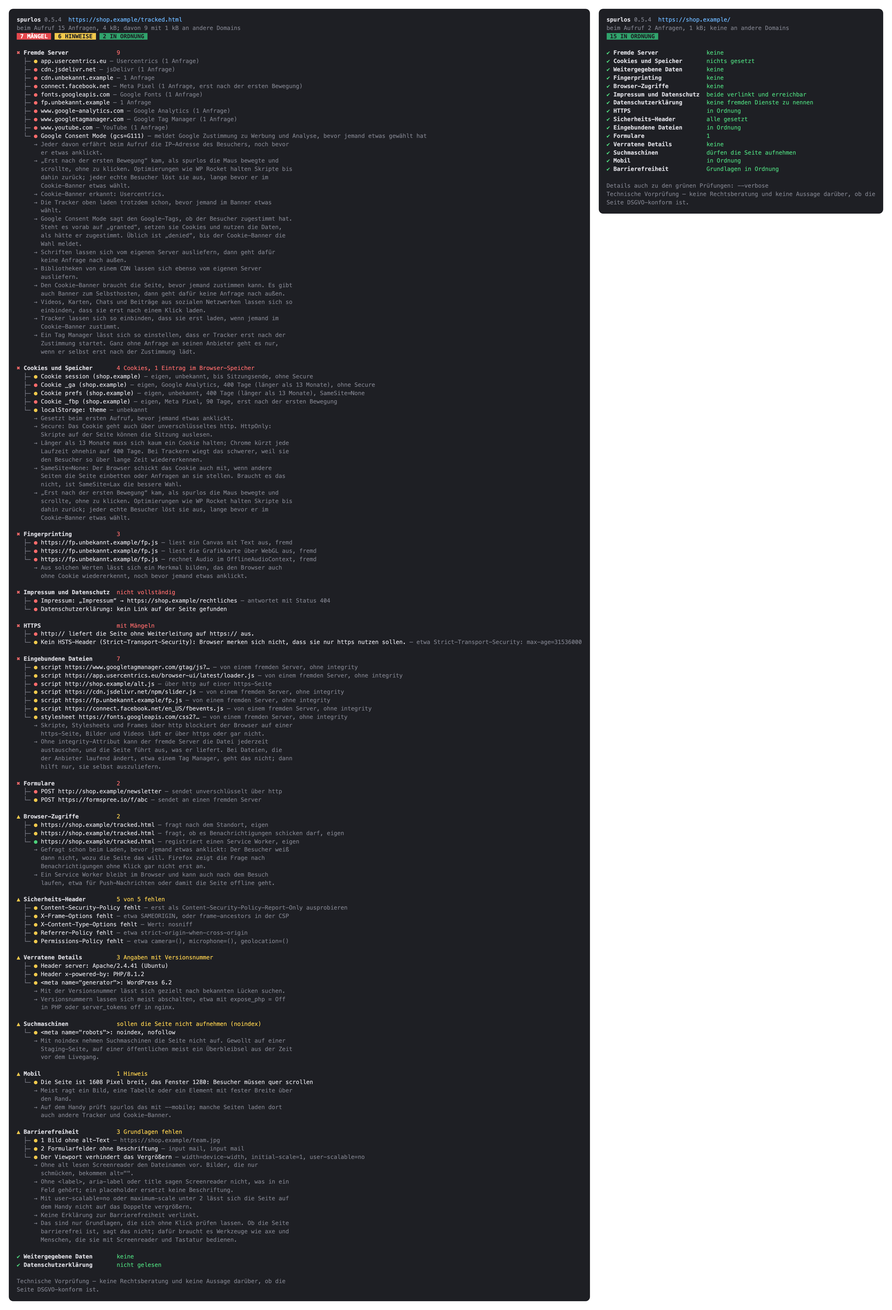
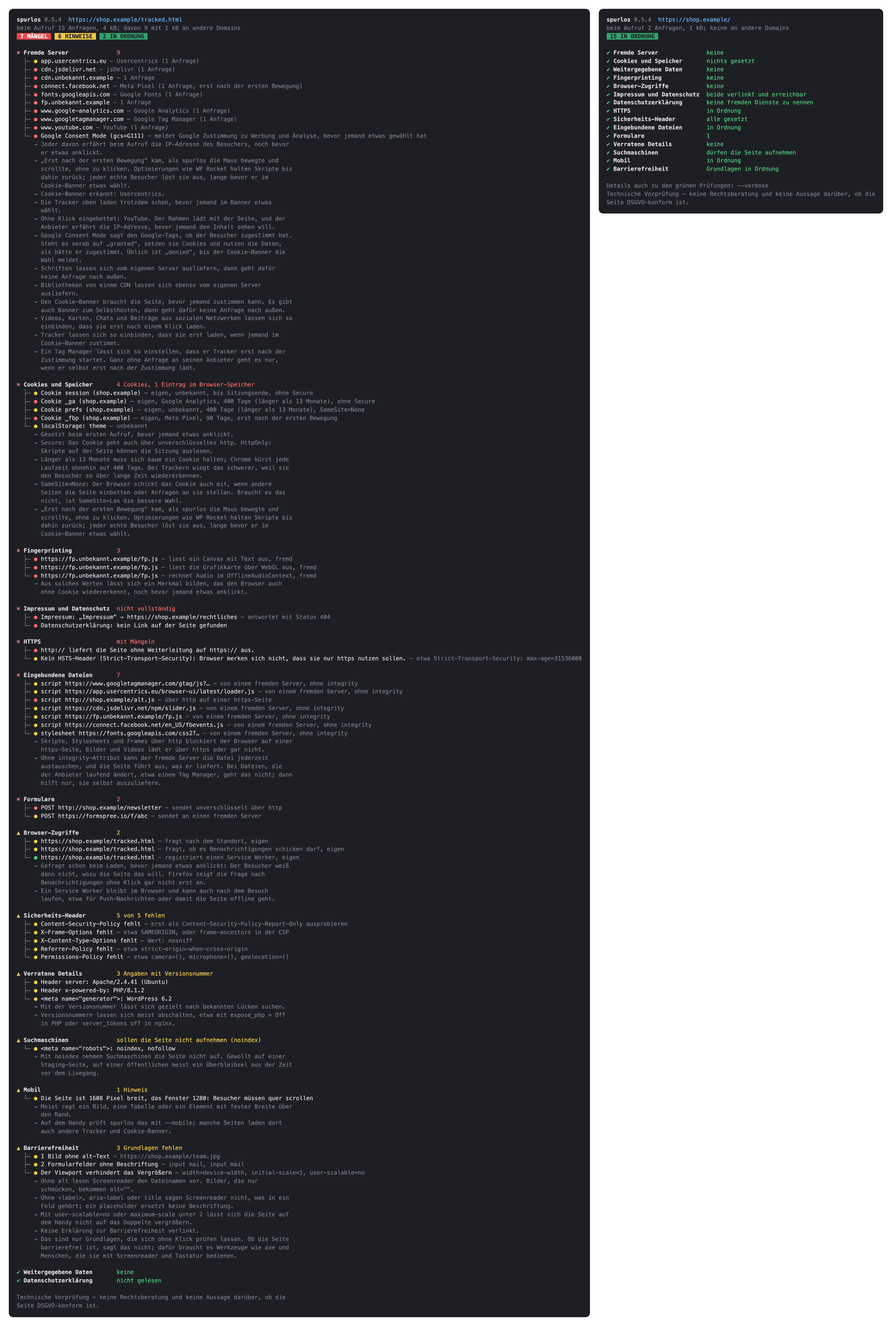
Name videos, maps and posts embedded as a frame on load, and know Google Maps embedded from www.google.com

Changed region(s): [[0.0311, 0.0, 0.4042, 0.9642], [0.6841, 0.0, 0.8707, 0.1555], [0.2488, 0.9331, 0.2799, 0.9642]]

diff --git a/examples/mit-maengeln.html b/examples/mit-maengeln.html
@@ -50,7 +50,7 @@ footer { margin-top: 28px; padding-top: 12px; border-top: 1px solid var(--line);
 <div class="top">
 <div>
 <h1>https://shop.example/tracked.html</h1>
-<p class="meta">checked on November 25, 2026 at 05:42 PM GMT+1</p>
+<p class="meta">checked on November 25, 2026 at 05:50 PM GMT+1</p>
 <p class="meta">15 requests on load, 4 kB; 9 of them with 1 kB to other domains</p>
 </div>
 <p class="brand"><svg class="logo light" xmlns="http://www.w3.org/2000/svg" viewBox="0 0 5255.92 1056" role="img" aria-label="spurlos"><title>spurlos</title><g transform="translate(-60.71 -70.67) scale(18.14)"><circle cx="28" cy="28" r="20" fill="none" stroke="#1e1f24" stroke-width="5.5"/><line x1="42.5" y1="42.5" x2="57" y2="57" stroke="#1e1f24" stroke-width="8" stroke-linecap="round"/><circle cx="17.5" cy="28" r="4.6" fill="#e5484d"/><circle cx="28" cy="28" r="4.6" fill="#e0a800"/><circle cx="38.5" cy="28" r="4.6" fill="#1f9d55"/></g><path transform="translate(1195.92 846)" fill="#1e1f24" d="M277 10Q209 10 158 -11.5Q107 -33 78.5 -71Q50 -109 50 -160L200 -160Q200 -136 221.5 -121.5Q243 -107 277 -107L321 -107Q362 -107 383.5 -122Q405 -137 405 -164Q405 -189 386 -202.5Q367 -216 327 -221L263 -229Q160 -242 113 -279Q66 -316 66 -392Q66 -472 121 -516Q176 -560 282 -560L320 -560Q421 -560 481 -516Q541 -472 541 -398L391 -398Q391 -418 371.5 -430.5Q352 -443 320 -443L282 -443Q245 -443 228 -430.5Q211 -418 211 -393Q211 -370 226.5 -358Q242 -346 276 -341L345 -332Q449 -319 499.5 -280Q550 -241 550 -164Q550 -80 492 -35Q434 10 321 10ZM646 180L646 -550L791 -550L791 -445L794 -445Q801 -491 830 -521Q869 -560 937 -560Q1020 -560 1070 -501.5Q1120 -443 1120 -345L1120 -205Q1120 -140 1097.5 -91.5Q1075 -43 1034 -16.5Q993 10 937 10Q869 10 830 -30Q801 -59 794 -105L791 -105L796 30L796 180ZM883 -120Q925 -120 947.5 -143.5Q970 -167 970 -210L970 -340Q970 -384 947.5 -407Q925 -430 883 -430Q842 -430 819 -406.5Q796 -383 796 -340L796 -210Q796 -167 819 -143.5Q842 -120 883 -120ZM1460 10Q1349 10 1286.5 -50Q1224 -110 1224 -214L1224 -550L1374 -550L1374 -215Q1374 -169 1396 -144.5Q1418 -120 1460 -120Q1501 -120 1523.5 -144.5Q1546 -169 1546 -215L1546 -550L1696 -550L1696 -214Q1696 -109 1633 -49.5Q1570 10 1460 10ZM1822 0L1822 -550L1962 -550L1962 -445L1964 -445Q1973 -488 1998 -515Q2039 -560 2118 -560Q2209 -560 2259.5 -505Q2310 -450 2310 -350L2310 -305L2150 -305L2150 -340Q2150 -385 2125.5 -410Q2101 -435 2060 -435Q2017 -435 1994.5 -410Q1972 -385 1972 -340L1972 0ZM2710 0Q2652 0 2608 -24.5Q2564 -49 2539.5 -93Q2515 -137 2515 -195L2515 -595L2345 -595L2345 -730L2665 -730L2665 -195Q2665 -168 2681.5 -151.5Q2698 -135 2725 -135L2885 -135L2885 0ZM3200 10Q3127 10 3073 -17.5Q3019 -45 2989.5 -94.5Q2960 -144 2960 -210L2960 -340Q2960 -406 2989.5 -455.5Q3019 -505 3073 -532.5Q3127 -560 3200 -560Q3274 -560 3327.5 -532.5Q3381 -505 3410.5 -455.5Q3440 -406 3440 -340L3440 -210Q3440 -144 3410.5 -94.5Q3381 -45 3327.5 -17.5Q3274 10 3200 10ZM3200 -120Q3244 -120 3267 -143.5Q3290 -167 3290 -210L3290 -340Q3290 -384 3267 -407Q3244 -430 3200 -430Q3157 -430 3133.5 -407Q3110 -384 3110 -340L3110 -210Q3110 -167 3133.5 -143.5Q3157 -120 3200 -120ZM3757 10Q3689 10 3638 -11.5Q3587 -33 3558.5 -71Q3530 -109 3530 -160L3680 -160Q3680 -136 3701.5 -121.5Q3723 -107 3757 -107L3801 -107Q3842 -107 3863.5 -122Q3885 -137 3885 -164Q3885 -189 3866 -202.5Q3847 -216 3807 -221L3743 -229Q3640 -242 3593 -279Q3546 -316 3546 -392Q3546 -472 3601 -516Q3656 -560 3762 -560L3800 -560Q3901 -560 3961 -516Q4021 -472 4021 -398L3871 -398Q3871 -418 3851.5 -430.5Q3832 -443 3800 -443L3762 -443Q3725 -443 3708 -430.5Q3691 -418 3691 -393Q3691 -370 3706.5 -358Q3722 -346 3756 -341L3825 -332Q3929 -319 3979.5 -280Q4030 -241 4030 -164Q4030 -80 3972 -35Q3914 10 3801 10Z"/></svg>
@@ -59,7 +59,7 @@ footer { margin-top: 28px; padding-top: 12px; border-top: 1px solid var(--line);
 </div>
 <p class="summary"><span class="badge red">7 problems</span> <span class="badge yellow">6 notes</span> <span class="badge green">2 fine</span></p>
 </header>
-<details class="check red" open><summary class="head"><span class="mark">✖</span><span class="title">Third-party servers</span><span class="value">9</span></summary><ul><li class="yellow">app.usercentrics.eu<span class="detail"> – Usercentrics (1 request)</span></li><li class="red">cdn.jsdelivr.net<span class="detail"> – jsDelivr (1 request)</span></li><li class="red">cdn.unbekannt.example<span class="detail"> – 1 request</span></li><li class="red">connect.facebook.net<span class="detail"> – Meta Pixel (1 request, only after the first move)</span></li><li class="red">fonts.googleapis.com<span class="detail"> – Google Fonts (1 request)</span></li><li class="red">fp.unbekannt.example<span class="detail"> – 1 request</span></li><li class="red">www.google-analytics.com<span class="detail"> – Google Analytics (1 request)</span></li><li class="red">www.googletagmanager.com<span class="detail"> – Google Tag Manager (1 request)</span></li><li class="red">www.youtube.com<span class="detail"> – YouTube (1 request)</span></li><li class="red">Google Consent Mode (gcs=G111)<span class="detail"> – tells Google consent was given for ads and analytics before anyone chose anything</span></li></ul><p class="note">Each of them learns the visitor&#39;s IP address on opening the page, before any click.</p><p class="note">“Only after the first move” came when spurlos moved the mouse and scrolled, without clicking. Optimizers such as WP Rocket hold scripts back until then; every real visitor sets them off, long before choosing anything in the cookie banner.</p><p class="note">Cookie banner found: Usercentrics.</p><p class="note">The trackers above still load before anyone chooses anything in the banner.</p><p class="note">Google Consent Mode tells Google&#39;s tags whether the visitor agreed. Set to “granted” up front, they set cookies and use the data as if the visitor had agreed. The usual default is “denied” until the cookie banner reports the choice.</p><p class="note">Fonts can be served from the own server, then no request goes out for them.</p><p class="note">Libraries from a CDN can be served from the own server as well.</p><p class="note">The site needs the cookie banner before anyone can agree. There are also banners to host yourself, then no request goes out for it.</p><p class="note">Videos, maps, chats and social media posts can be embedded so that they only load after a click.</p><p class="note">Trackers can be embedded so that they only load once someone agrees in the cookie banner.</p><p class="note">A tag manager can be set up to start trackers only after consent. To send no request to its provider at all, load the tag manager itself only after consent.</p></details>
+<details class="check red" open><summary class="head"><span class="mark">✖</span><span class="title">Third-party servers</span><span class="value">9</span></summary><ul><li class="yellow">app.usercentrics.eu<span class="detail"> – Usercentrics (1 request)</span></li><li class="red">cdn.jsdelivr.net<span class="detail"> – jsDelivr (1 request)</span></li><li class="red">cdn.unbekannt.example<span class="detail"> – 1 request</span></li><li class="red">connect.facebook.net<span class="detail"> – Meta Pixel (1 request, only after the first move)</span></li><li class="red">fonts.googleapis.com<span class="detail"> – Google Fonts (1 request)</span></li><li class="red">fp.unbekannt.example<span class="detail"> – 1 request</span></li><li class="red">www.google-analytics.com<span class="detail"> – Google Analytics (1 request)</span></li><li class="red">www.googletagmanager.com<span class="detail"> – Google Tag Manager (1 request)</span></li><li class="red">www.youtube.com<span class="detail"> – YouTube (1 request)</span></li><li class="red">Google Consent Mode (gcs=G111)<span class="detail"> – tells Google consent was given for ads and analytics before anyone chose anything</span></li></ul><p class="note">Each of them learns the visitor&#39;s IP address on opening the page, before any click.</p><p class="note">“Only after the first move” came when spurlos moved the mouse and scrolled, without clicking. Optimizers such as WP Rocket hold scripts back until then; every real visitor sets them off, long before choosing anything in the cookie banner.</p><p class="note">Cookie banner found: Usercentrics.</p><p class="note">The trackers above still load before anyone chooses anything in the banner.</p><p class="note">Embedded without a click: YouTube. The frame loads with the page, and its provider learns the IP address before anyone asks for the content.</p><p class="note">Google Consent Mode tells Google&#39;s tags whether the visitor agreed. Set to “granted” up front, they set cookies and use the data as if the visitor had agreed. The usual default is “denied” until the cookie banner reports the choice.</p><p class="note">Fonts can be served from the own server, then no request goes out for them.</p><p class="note">Libraries from a CDN can be served from the own server as well.</p><p class="note">The site needs the cookie banner before anyone can agree. There are also banners to host yourself, then no request goes out for it.</p><p class="note">Videos, maps, chats and social media posts can be embedded so that they only load after a click.</p><p class="note">Trackers can be embedded so that they only load once someone agrees in the cookie banner.</p><p class="note">A tag manager can be set up to start trackers only after consent. To send no request to its provider at all, load the tag manager itself only after consent.</p></details>
 <details class="check red" open><summary class="head"><span class="mark">✖</span><span class="title">Cookies and storage</span><span class="value">4 cookies, 1 entry in browser storage</span></summary><ul><li class="yellow">Cookie session (shop.example)<span class="detail"> – first-party, unknown, until the session ends, without Secure</span></li><li class="red">Cookie _ga (shop.example)<span class="detail"> – first-party, Google Analytics, 400 days (longer than 13 months), without Secure</span></li><li class="yellow">Cookie prefs (shop.example)<span class="detail"> – first-party, unknown, 400 days (longer than 13 months), SameSite=None</span></li><li class="red">Cookie _fbp (shop.example)<span class="detail"> – first-party, Meta Pixel, 90 days, only after the first move</span></li><li class="yellow">localStorage: theme<span class="detail"> – unknown</span></li></ul><p class="note">Set on the first visit, before any click.</p><p class="note">Secure: the cookie also travels over unencrypted http. HttpOnly: scripts on the page can read the session.</p><p class="note">Hardly any cookie needs to last longer than 13 months; Chrome cuts every lifetime to 400 days anyway. For trackers it weighs more, as they recognize the visitor over a long time that way.</p><p class="note">SameSite=None: the browser sends the cookie along even when other sites embed the site or send requests to it. If it does not need that, SameSite=Lax is the better choice.</p><p class="note">“Only after the first move” came when spurlos moved the mouse and scrolled, without clicking. Optimizers such as WP Rocket hold scripts back until then; every real visitor sets them off, long before choosing anything in the cookie banner.</p></details>
 <details class="check red" open><summary class="head"><span class="mark">✖</span><span class="title">Fingerprinting</span><span class="value">3</span></summary><ul><li class="red">https://fp.unbekannt.example/fp.js<span class="detail"> – reads back a canvas with text, third-party</span></li><li class="red">https://fp.unbekannt.example/fp.js<span class="detail"> – reads the graphics card via WebGL, third-party</span></li><li class="red">https://fp.unbekannt.example/fp.js<span class="detail"> – renders audio in an OfflineAudioContext, third-party</span></li></ul><p class="note">Such values make up a trait that recognizes the browser without any cookie, before anyone clicks anything.</p></details>
 <details class="check red" open><summary class="head"><span class="mark">✖</span><span class="title">Legal notice and privacy policy</span><span class="value">incomplete</span></summary><ul><li class="red">Legal notice (Impressum): “Impressum” → https://shop.example/rechtliches<span class="detail"> – answers with status 404</span></li><li class="red">Privacy policy: no link found on the page</li></ul></details>

diff --git a/examples/sauber.html b/examples/sauber.html
@@ -50,7 +50,7 @@ footer { margin-top: 28px; padding-top: 12px; border-top: 1px solid var(--line);
 <div class="top">
 <div>
 <h1>https://shop.example/</h1>
-<p class="meta">checked on November 25, 2026 at 05:42 PM GMT+1</p>
+<p class="meta">checked on November 25, 2026 at 05:50 PM GMT+1</p>
 <p class="meta">2 requests on load, 1 kB; none to other domains</p>
 </div>
 <p class="brand"><svg class="logo light" xmlns="http://www.w3.org/2000/svg" viewBox="0 0 5255.92 1056" role="img" aria-label="spurlos"><title>spurlos</title><g transform="translate(-60.71 -70.67) scale(18.14)"><circle cx="28" cy="28" r="20" fill="none" stroke="#1e1f24" stroke-width="5.5"/><line x1="42.5" y1="42.5" x2="57" y2="57" stroke="#1e1f24" stroke-width="8" stroke-linecap="round"/><circle cx="17.5" cy="28" r="4.6" fill="#e5484d"/><circle cx="28" cy="28" r="4.6" fill="#e0a800"/><circle cx="38.5" cy="28" r="4.6" fill="#1f9d55"/></g><path transform="translate(1195.92 846)" fill="#1e1f24" d="M277 10Q209 10 158 -11.5Q107 -33 78.5 -71Q50 -109 50 -160L200 -160Q200 -136 221.5 -121.5Q243 -107 277 -107L321 -107Q362 -107 383.5 -122Q405 -137 405 -164Q405 -189 386 -202.5Q367 -216 327 -221L263 -229Q160 -242 113 -279Q66 -316 66 -392Q66 -472 121 -516Q176 -560 282 -560L320 -560Q421 -560 481 -516Q541 -472 541 -398L391 -398Q391 -418 371.5 -430.5Q352 -443 320 -443L282 -443Q245 -443 228 -430.5Q211 -418 211 -393Q211 -370 226.5 -358Q242 -346 276 -341L345 -332Q449 -319 499.5 -280Q550 -241 550 -164Q550 -80 492 -35Q434 10 321 10ZM646 180L646 -550L791 -550L791 -445L794 -445Q801 -491 830 -521Q869 -560 937 -560Q1020 -560 1070 -501.5Q1120 -443 1120 -345L1120 -205Q1120 -140 1097.5 -91.5Q1075 -43 1034 -16.5Q993 10 937 10Q869 10 830 -30Q801 -59 794 -105L791 -105L796 30L796 180ZM883 -120Q925 -120 947.5 -143.5Q970 -167 970 -210L970 -340Q970 -384 947.5 -407Q925 -430 883 -430Q842 -430 819 -406.5Q796 -383 796 -340L796 -210Q796 -167 819 -143.5Q842 -120 883 -120ZM1460 10Q1349 10 1286.5 -50Q1224 -110 1224 -214L1224 -550L1374 -550L1374 -215Q1374 -169 1396 -144.5Q1418 -120 1460 -120Q1501 -120 1523.5 -144.5Q1546 -169 1546 -215L1546 -550L1696 -550L1696 -214Q1696 -109 1633 -49.5Q1570 10 1460 10ZM1822 0L1822 -550L1962 -550L1962 -445L1964 -445Q1973 -488 1998 -515Q2039 -560 2118 -560Q2209 -560 2259.5 -505Q2310 -450 2310 -350L2310 -305L2150 -305L2150 -340Q2150 -385 2125.5 -410Q2101 -435 2060 -435Q2017 -435 1994.5 -410Q1972 -385 1972 -340L1972 0ZM2710 0Q2652 0 2608 -24.5Q2564 -49 2539.5 -93Q2515 -137 2515 -195L2515 -595L2345 -595L2345 -730L2665 -730L2665 -195Q2665 -168 2681.5 -151.5Q2698 -135 2725 -135L2885 -135L2885 0ZM3200 10Q3127 10 3073 -17.5Q3019 -45 2989.5 -94.5Q2960 -144 2960 -210L2960 -340Q2960 -406 2989.5 -455.5Q3019 -505 3073 -532.5Q3127 -560 3200 -560Q3274 -560 3327.5 -532.5Q3381 -505 3410.5 -455.5Q3440 -406 3440 -340L3440 -210Q3440 -144 3410.5 -94.5Q3381 -45 3327.5 -17.5Q3274 10 3200 10ZM3200 -120Q3244 -120 3267 -143.5Q3290 -167 3290 -210L3290 -340Q3290 -384 3267 -407Q3244 -430 3200 -430Q3157 -430 3133.5 -407Q3110 -384 3110 -340L3110 -210Q3110 -167 3133.5 -143.5Q3157 -120 3200 -120ZM3757 10Q3689 10 3638 -11.5Q3587 -33 3558.5 -71Q3530 -109 3530 -160L3680 -160Q3680 -136 3701.5 -121.5Q3723 -107 3757 -107L3801 -107Q3842 -107 3863.5 -122Q3885 -137 3885 -164Q3885 -189 3866 -202.5Q3847 -216 3807 -221L3743 -229Q3640 -242 3593 -279Q3546 -316 3546 -392Q3546 -472 3601 -516Q3656 -560 3762 -560L3800 -560Q3901 -560 3961 -516Q4021 -472 4021 -398L3871 -398Q3871 -418 3851.5 -430.5Q3832 -443 3800 -443L3762 -443Q3725 -443 3708 -430.5Q3691 -418 3691 -393Q3691 -370 3706.5 -358Q3722 -346 3756 -341L3825 -332Q3929 -319 3979.5 -280Q4030 -241 4030 -164Q4030 -80 3972 -35Q3914 10 3801 10Z"/></svg>

diff --git a/src/checks.ts b/src/checks.ts
@@ -66,7 +66,7 @@ export type AccessibilityProblem = 'lang' | 'images' | 'fields' | 'zoom'
 export type MobileProblem = 'viewport' | 'overflow'
 
 export type Result =
-  | { check: 'third-party'; level: Level; hosts: ThirdParty[]; consent: string[]; selfHosted: string[]; platform?: string; consentMode?: ConsentMode; banner?: Banner }
+  | { check: 'third-party'; level: Level; hosts: ThirdParty[]; consent: string[]; selfHosted: string[]; platform?: string; consentMode?: ConsentMode; banner?: Banner; embeds?: string[] }
   | { check: 'cookies'; level: Level; cookies: CookieFinding[]; storage: StorageFinding[] }
   | { check: 'legal'; level: Level; pages: LegalPage[] }
   | { check: 'policy'; level: Level; read: boolean; url?: string; services: PolicyService[] }
@@ -269,6 +269,31 @@ export function consentMode(scan: Scan): ConsentMode | undefined {
 /** Consent Mode granting anything before a click is red: Google's tags then set cookies and use the data as if agreed. */
 export const consentModeGranted = (c: ConsentMode | undefined): boolean => c !== undefined && (c.ads === 'granted' || c.analytics === 'granted')
 
+// what a site can embed as a frame that waits for a click: a video, a map, a post
+const EMBEDDED = ['video', 'maps', 'social']
+
+/**
+ * The known services the markup embeds as a frame from another site, so they load with the page: no placeholder that
+ * waits for a click. youtube-nocookie.com is named as such, as it sets cookies only once the video plays.
+ */
+export function embeds(scan: Scan): string[] {
+  const own = ownSites(scan)
+  const names = new Set<string>()
+  for (const r of list(scan.resources)) {
+    if (r.tag !== 'iframe') continue
+    let host = ''
+    try {
+      host = new URL(r.url).hostname
+    } catch {
+      continue
+    }
+    const service = preferPath(serviceOfHost(host), serviceOfPath(r.url))
+    if (own.has(site(host)) || !service || !EMBEDDED.includes(service.category)) continue
+    names.add(site(host) === 'youtube-nocookie.com' ? `${service.name} (youtube-nocookie.com)` : service.name)
+  }
+  return [...names]
+}
+
 /** a cookie banner's buttons on its first layer: the one that agrees, and the one that refuses if there is one */
 export type Banner = { accept: string; reject?: string }
 
@@ -302,8 +327,9 @@ export function thirdParty(scan: Scan): Result {
   const platform = platformOf(scan)
   const mode = consentMode(scan)
   const choice = banner(scan)
+  const framed = embeds(scan)
   const level = worst([...hosts.map(hostLevel), ...(consentModeGranted(mode) ? ['red' as const] : []), ...(choice ? [bannerLevel(choice)] : [])])
-  return { check: 'third-party', level, hosts, consent: consentManagers(scan), selfHosted, ...(platform ? { platform: platform.name } : {}), ...(mode ? { consentMode: mode } : {}), ...(choice ? { banner: choice } : {}) }
+  return { check: 'third-party', level, hosts, consent: consentManagers(scan), selfHosted, ...(platform ? { platform: platform.name } : {}), ...(mode ? { consentMode: mode } : {}), ...(choice ? { banner: choice } : {}), ...(framed.length ? { embeds: framed } : {}) }
 }
 
 const thirdPartyHosts = (scan: Scan) => thirdPartyFound(scan).hosts

diff --git a/test/checks.test.ts b/test/checks.test.ts
@@ -1,7 +1,7 @@
 import { describe, expect, test } from 'vitest'
 import {
   access, accessibility, blocksZoom, indexing, consentMode, cookieIds, policy, servicesNamed, compare, mobile, carried, leaks, load, consentManagers, preconnects, cookies, disclosure, findings, fingerprinting, forms, headers, https, legal, legalLinks, resources, serviceOfCookie, serviceOfStorage, serviceOfHost,
-  banner, thirdParty, weakCsp, type Banner, type Result,
+  banner, embeds, thirdParty, weakCsp, type Banner, type Result,
 } from '../src/checks.ts'
 import { iceHost, type Scan, type Visit } from '../src/scan.ts'
 
@@ -660,6 +660,25 @@ describe('cookie banners', () => {
     expect(level({ accept: 'Alle akzeptieren' })).toBe('yellow')
     expect(level({ accept: 'Alle akzeptieren', reject: 'Ablehnen' })).toBe('green')
     expect(findings(thirdParty({ ...base, banner: ['Alle akzeptieren'] }))).toEqual([{ key: 'consent-banner no-reject', level: 'yellow' }])
+  })
+
+  test('a video, map or post embedded as a frame on load is named; a script or the site’s own frame is not', () => {
+    const frame = (url: string) => ({ tag: 'iframe', url, integrity: false })
+    const scan = {
+      ...base,
+      resources: [
+        frame('https://www.youtube-nocookie.com/embed/abc'),
+        frame('https://www.google.com/maps/embed?pb=xyz'),
+        frame('https://www.firma.de/karte.html'),
+        frame('https://www.google.com/recaptcha/api2/anchor'),
+        { tag: 'script', url: 'https://player.vimeo.com/api/player.js', integrity: false },
+      ],
+    }
+    expect(embeds(scan)).toEqual(['YouTube (youtube-nocookie.com)', 'Google Maps'])
+    const r = thirdParty(scan)
+    if (r.check !== 'third-party') throw new Error()
+    expect(r.embeds).toEqual(['YouTube (youtube-nocookie.com)', 'Google Maps'])
+    expect(thirdParty(base)).not.toHaveProperty('embeds')
   })
 
   test("the banner's own cookie is green, a chat's yellow, a tracker's red", () => {

diff --git a/src/lang/de.ts b/src/lang/de.ts
@@ -147,6 +147,9 @@ Hilft dir spurlos? https://ko-fi.com/mmohrx`,
   bannerNoReject: (text: string) => `„${text}“ auf der ersten Ebene, kein Knopf zum Ablehnen`,
   bannerNoRejectNote:
     'Der Banner zeigt ohne Klick einen Knopf zum Zustimmen, aber keinen zum Ablehnen; der steckt dann meist hinter „Einstellungen“ oder einem Link. spurlos erkennt die Knöpfe an ihren Wörtern und klickt keinen an. Heißt der Knopf anders, prüf es selbst.',
+  embedded: (names: string) =>
+    `Ohne Klick eingebettet: ${names}. Der Rahmen lädt mit der Seite, und der Anbieter erfährt die IP-Adresse, bevor jemand den Inhalt sehen will.`,
+  embeddedNoCookie: 'youtube-nocookie.com setzt laut YouTube erst Cookies, wenn das Video abgespielt wird. Die IP-Adresse erfährt YouTube beim Laden trotzdem.',
   consentModeGranted: (ads: boolean, analytics: boolean) => `meldet Google Zustimmung zu ${ads && analytics ? 'Werbung und Analyse' : ads ? 'Werbung' : 'Analyse'}, bevor jemand etwas gewählt hat`,
   consentModeGrantedNote: 'Google Consent Mode sagt den Google-Tags, ob der Besucher zugestimmt hat. Steht es vorab auf „granted“, setzen sie Cookies und nutzen die Daten, als hätte er zugestimmt. Üblich ist „denied“, bis der Cookie-Banner die Wahl meldet.',
   consentModeDenied: (gcs: string) => `Google Consent Mode meldet Werbung und Analyse als abgelehnt (gcs=${gcs}). Die Google-Tags senden trotzdem schon, ohne Cookies, und erfahren dabei die IP-Adresse.`,

diff --git a/src/lang/en.ts b/src/lang/en.ts
@@ -143,6 +143,9 @@ Does spurlos help you? https://ko-fi.com/mmohrx`,
   bannerNoReject: text => `“${text}” on the first layer, no button to refuse`,
   bannerNoRejectNote:
     'Without a click, the banner shows a button to agree but none to refuse; that one then mostly sits behind “Settings” or a link. spurlos recognizes the buttons by their words and clicks none of them. If the button is worded differently, check it yourself.',
+  embedded: names =>
+    `Embedded without a click: ${names}. The frame loads with the page, and its provider learns the IP address before anyone asks for the content.`,
+  embeddedNoCookie: 'youtube-nocookie.com, as YouTube says, sets cookies only once the video plays. YouTube still learns the IP address when it loads.',
   consentModeGranted: (ads, analytics) => `tells Google consent was given for ${ads && analytics ? 'ads and analytics' : ads ? 'ads' : 'analytics'} before anyone chose anything`,
   consentModeGrantedNote: 'Google Consent Mode tells Google\'s tags whether the visitor agreed. Set to “granted” up front, they set cookies and use the data as if the visitor had agreed. The usual default is “denied” until the cookie banner reports the choice.',
   consentModeDenied: gcs => `Google Consent Mode reports ads and analytics as denied (gcs=${gcs}). Google's tags still send requests, without cookies, and learn the IP address that way.`,

diff --git a/test/report.test.ts b/test/report.test.ts
@@ -207,6 +207,16 @@ test('a session replay counts as a tracker and gets a note of its own', () => {
   expect(text(page('https://shop.example/'), [{ ...r, hosts: [{ ...hj, own: 'option' as const }] }], 'de')).not.toContain('Sitzungsaufzeichnung')
 })
 
+test('frames embedded on load are named, youtube-nocookie.com with what it changes', () => {
+  const yt = { host: 'www.youtube-nocookie.com', service: { name: 'YouTube', category: 'video', hosts: ['youtube-nocookie.com'] }, requests: 3 }
+  const r: Result = { check: 'third-party', level: 'red', hosts: [yt], consent: [], selfHosted: [], embeds: ['YouTube (youtube-nocookie.com)'] }
+  const de = text(page('https://shop.example/'), [r], 'de')
+  expect(de).toContain('Ohne Klick eingebettet: YouTube (youtube-nocookie.com).')
+  expect(de).toContain('youtube-nocookie.com setzt laut YouTube erst Cookies')
+  expect(text(page('https://shop.example/'), [r], 'en')).toContain('Embedded without a click: YouTube (youtube-nocookie.com).')
+  expect(text(page('https://shop.example/'), [{ ...r, embeds: [] }], 'de')).not.toContain('Ohne Klick eingebettet')
+})
+
 test('SARIF: one rule per check, a result per red or yellow finding at the page, its key as fingerprint', () => {
   const scan = page('https://shop.example/')
   const results: Result[] = [

diff --git a/src/report.ts b/src/report.ts
@@ -81,7 +81,7 @@ function unkeyed(t: Messages, r: Result, now: number): Section {
         categories.has('cdn') ? t.thirdPartyHint.cdn : null,
         categories.has('consent') ? t.thirdPartyHint.consent : null,
         categories.has('captcha') ? t.thirdPartyHint.captcha : null,
-        EMBEDS.some(c => categories.has(c)) ? t.thirdPartyHint.embed : null,
+        EMBEDS.some(c => categories.has(c)) || r.embeds?.length ? t.thirdPartyHint.embed : null,
         trackers ? t.thirdPartyHint.tracking : null,
         tagManager ? t.thirdPartyHint.tagManager : null,
       ]
@@ -102,6 +102,9 @@ function unkeyed(t: Messages, r: Result, now: number): Section {
           ...consent,
           ...(replays.length ? [t.sessionReplay(replays.join(', '))] : []),
           ...bannerNotes,
+          // a baseline from an older spurlos has none
+          ...(r.embeds?.length ? [t.embedded(r.embeds.join(', '))] : []),
+          ...(r.embeds?.some(e => e.includes('youtube-nocookie.com')) ? [t.embeddedNoCookie] : []),
           ...modeNotes,
           ...hints.filter(n => n !== null),
         ],

diff --git a/docs/de/checks.md b/docs/de/checks.md
@@ -14,7 +14,7 @@ Bekannte Sitzungs- und Sicherheits-Cookies sind zum Beispiel `XSRF-TOKEN` und `<
 
 Ein Cookie, das länger als 13 Monate (395 Tage) gilt, ist mindestens gelb, auch ein bekanntes Sitzungs-Cookie; in `--json` trägt es `long: true`. Chrome kürzt jede Laufzeit auf höchstens 400 Tage, ein Cookie für zwei Jahre steht im Bericht also mit 400 Tagen. `SameSite=None` bei einem eigenen Cookie nennt der Bericht, ohne dass sich die Ampel ändert: Der Browser schickt es dann auch in fremden Zusammenhängen mit, aber Dienste wie Cloudflare (`__cf_bm`) brauchen das.
 
-Cookie-Banner erkennt spurlos an ihren Servern, an ihren Dateien auf der eigenen Seite (so auch Borlabs Cookie, Complianz oder Real Cookie Banner unter WordPress), an ihren Cookies und an ihren Einträgen im Browser-Speicher (Kategorie `consent`). Die Prüfung „Fremde Server“ nennt, welcher geladen wird, und sagt, wenn bekannte Tracker trotzdem schon vor jeder Wahl im Banner laden. Lädt davor nur ein Tag Manager wie Google Tag Manager, Adobe Tags oder Tealium iQ (Kategorie `tag-manager`), sagt der Bericht das eigens: Er zählt selbst nichts mit, startet aber Tracker, sobald die Seite es so einstellt, und sein Anbieter erfährt die IP-Adresse. Rot bleibt der fremde Server so oder so. Dienste, die den Besuch aufzeichnen, etwa Hotjar, Microsoft Clarity oder FullStory (Kategorie `session-replay`), zählen als Tracker, und der Bericht nennt sie als Sitzungsaufzeichnung: Sie zeichnen Mausbewegungen, Klicks und Scrollen auf, je nach Einstellung auch, was jemand in Formularfelder tippt. Außerdem liest spurlos die Knöpfe, die der Banner ohne Klick zeigt, auf der Seite oder in einem Frame seines Anbieters, und sagt, ob neben dem Knopf zum Zustimmen einer ablehnt („Alle ablehnen“, „Nur notwendige Cookies“, „Weiter ohne Einwilligung“). Geht nur das Zustimmen mit einem Klick, ist das gelb: Das Ablehnen steckt dann meist hinter „Einstellungen“ oder einem Link. spurlos erkennt die Knöpfe an ihren Wörtern, auf Deutsch und Englisch, und klickt keinen an; ein Knopf, der eine Auswahl trifft oder speichert, zählt weder als das eine noch als das andere. Einen Banner, den es nicht findet oder dessen Wörter es nicht kennt, lässt es weg. Ob ein Banner nötig ist oder richtig eingestellt, beurteilt spurlos nicht.
+Cookie-Banner erkennt spurlos an ihren Servern, an ihren Dateien auf der eigenen Seite (so auch Borlabs Cookie, Complianz oder Real Cookie Banner unter WordPress), an ihren Cookies und an ihren Einträgen im Browser-Speicher (Kategorie `consent`). Die Prüfung „Fremde Server“ nennt, welcher geladen wird, und sagt, wenn bekannte Tracker trotzdem schon vor jeder Wahl im Banner laden. Lädt davor nur ein Tag Manager wie Google Tag Manager, Adobe Tags oder Tealium iQ (Kategorie `tag-manager`), sagt der Bericht das eigens: Er zählt selbst nichts mit, startet aber Tracker, sobald die Seite es so einstellt, und sein Anbieter erfährt die IP-Adresse. Rot bleibt der fremde Server so oder so. Dienste, die den Besuch aufzeichnen, etwa Hotjar, Microsoft Clarity oder FullStory (Kategorie `session-replay`), zählen als Tracker, und der Bericht nennt sie als Sitzungsaufzeichnung: Sie zeichnen Mausbewegungen, Klicks und Scrollen auf, je nach Einstellung auch, was jemand in Formularfelder tippt. Videos, Karten und Beiträge aus sozialen Netzwerken, die die Seite als Rahmen vom Server ihres Anbieters einbettet (Kategorien `video`, `maps`, `social`), nennt der Bericht als ohne Klick eingebettet: Sie laden mit der Seite, statt hinter einem Platzhalter auf einen Klick zu warten. Einen Rahmen von `youtube-nocookie.com` nennt er als solchen, weil YouTube dort nach eigener Aussage erst beim Abspielen Cookies setzt; die IP-Adresse erfährt YouTube trotzdem. Außerdem liest spurlos die Knöpfe, die der Banner ohne Klick zeigt, auf der Seite oder in einem Frame seines Anbieters, und sagt, ob neben dem Knopf zum Zustimmen einer ablehnt („Alle ablehnen“, „Nur notwendige Cookies“, „Weiter ohne Einwilligung“). Geht nur das Zustimmen mit einem Klick, ist das gelb: Das Ablehnen steckt dann meist hinter „Einstellungen“ oder einem Link. spurlos erkennt die Knöpfe an ihren Wörtern, auf Deutsch und Englisch, und klickt keinen an; ein Knopf, der eine Auswahl trifft oder speichert, zählt weder als das eine noch als das andere. Einen Banner, den es nicht findet oder dessen Wörter es nicht kennt, lässt es weg. Ob ein Banner nötig ist oder richtig eingestellt, beurteilt spurlos nicht.
 
 Nutzt die Seite Google Consent Mode, tragen die Anfragen der Google-Tags den Stand der Einwilligung im Parameter `gcs`: `G1` und dann je eine Ziffer für Werbung (`ad_storage`) und Analyse (`analytics_storage`), `1` für erteilt, `0` für abgelehnt. Vor jedem Klick sollte dort `G100` stehen; der Bericht nennt das als Hinweis, denn die Tags senden trotzdem schon, ohne Cookies. Meldet eine Anfrage schon vorher Zustimmung (`G101`, `G110`, `G111`), ist das ein roter Befund. spurlos liest `gcs` aus jeder Anfrage, auch an einen Tag-Server auf der eigenen Domain (serverseitiges Tagging), und nimmt von mehreren die, die am meisten erlaubt. In `--json` steht das bei `third-party` unter `consentMode` (`gcs`, `ads`, `analytics`, je `granted` oder `denied`).
 

diff --git a/docs/en/checks.md b/docs/en/checks.md
@@ -14,7 +14,7 @@ Known session and security cookies include `XSRF-TOKEN` and `<app>-session` from
 
 A cookie that lasts longer than 13 months (395 days) is yellow at least, a known session cookie too; in `--json` it carries `long: true`. Chrome cuts every lifetime to at most 400 days, so a cookie set for two years shows 400 days in the report. `SameSite=None` on a first-party cookie the report names without changing the light: the browser then sends it in third-party contexts too, but services such as Cloudflare (`__cf_bm`) need that.
 
-spurlos recognizes cookie banners by their servers, by their files on the site itself (so also Borlabs Cookie, Complianz or Real Cookie Banner on WordPress), by their cookies and by their browser storage entries (category `consent`). The check “Third-party servers” names which one loads, and says when known trackers load before any choice in the banner anyway. If only a tag manager such as Google Tag Manager, Adobe Tags or Tealium iQ loads before it (category `tag-manager`), the report says so on its own: it counts nothing itself, but starts trackers as soon as the site is set up to, and its provider learns the IP address. The third-party server stays red either way. Tools that record the visit, such as Hotjar, Microsoft Clarity or FullStory (category `session-replay`), count as trackers, and the report names them as session replay: they record mouse movements, clicks and scrolling, depending on their settings also what someone types into form fields. spurlos also reads the buttons the banner shows without a click, on the page or in a frame of its provider, and says whether one of them refuses (“Reject all”, “Only necessary cookies”, “Continue without consent”) next to the one that agrees. If only agreeing takes one click, this is yellow: refusing then mostly sits behind “Settings” or a link. spurlos recognizes the buttons by their words, in German and English, and clicks none of them; a button to choose or to save the choice counts as neither. A banner it does not find, or whose words it does not know, it leaves out. Whether a banner is needed or set up correctly, spurlos does not judge.
+spurlos recognizes cookie banners by their servers, by their files on the site itself (so also Borlabs Cookie, Complianz or Real Cookie Banner on WordPress), by their cookies and by their browser storage entries (category `consent`). The check “Third-party servers” names which one loads, and says when known trackers load before any choice in the banner anyway. If only a tag manager such as Google Tag Manager, Adobe Tags or Tealium iQ loads before it (category `tag-manager`), the report says so on its own: it counts nothing itself, but starts trackers as soon as the site is set up to, and its provider learns the IP address. The third-party server stays red either way. Tools that record the visit, such as Hotjar, Microsoft Clarity or FullStory (category `session-replay`), count as trackers, and the report names them as session replay: they record mouse movements, clicks and scrolling, depending on their settings also what someone types into form fields. Videos, maps and social media posts the page embeds as a frame from their provider's server (categories `video`, `maps`, `social`) the report names as embedded without a click: they load with the page instead of behind a placeholder that waits for a click. A frame from `youtube-nocookie.com` it names as such, as YouTube says it sets cookies only once the video plays; YouTube still learns the IP address. spurlos also reads the buttons the banner shows without a click, on the page or in a frame of its provider, and says whether one of them refuses (“Reject all”, “Only necessary cookies”, “Continue without consent”) next to the one that agrees. If only agreeing takes one click, this is yellow: refusing then mostly sits behind “Settings” or a link. spurlos recognizes the buttons by their words, in German and English, and clicks none of them; a button to choose or to save the choice counts as neither. A banner it does not find, or whose words it does not know, it leaves out. Whether a banner is needed or set up correctly, spurlos does not judge.
 
 If the site uses Google Consent Mode, the requests of Google's tags carry the consent state in the parameter `gcs`: `G1` followed by one digit each for ads (`ad_storage`) and analytics (`analytics_storage`), `1` for granted, `0` for denied. Before any click it should say `G100`; the report names that as a note, as the tags still send requests, without cookies. If a request reports consent before that (`G101`, `G110`, `G111`), that is a red finding. spurlos reads `gcs` from every request, also to a tag server on the site's own domain (server-side tagging), and of several takes the one that grants most. In `--json` it is under `consentMode` of `third-party` (`gcs`, `ads`, `analytics`, each `granted` or `denied`).
 

diff --git a/docs/de/ci.md b/docs/de/ci.md
@@ -8,7 +8,7 @@ npx spurlos https://staging.firma.de || echo "neue Spuren"
 
 Exit-Code `0` ohne roten Befund, `1` mit rotem Befund, `2`, wenn sich eine Seite nicht prüfen ließ oder der Aufruf falsch war (unbekannte Option, ungültige URL, unbekannte Sprache, mehr als eines von `--json`, `--html`, `--pdf`, `--sarif`, eines davon mit mehreren `-o`, eine Baseline, die sich nicht lesen lässt, eine Anmeldung für Adressen auf verschiedenen Servern, etwas anderes als ein Hostname bei `--own`) oder sich eine Datei von `-o` nicht schreiben ließ. Auch eine fehlende oder abgelehnte Anmeldung endet mit `2`, ebenso eine Seite, die den Aufruf mit `403` oder `429` abweist, und eine, die Chromium gar nicht öffnet, weil ihr Zertifikat ungültig ist oder ihr Server nur veraltete TLS-Versionen wie 1.0 und 1.1 anbietet; die Meldung sagt dann, woran es lag. Bei mehreren Adressen gilt der schlechteste Fall; die Berichte der Seiten, die sich prüfen ließen, schreibt spurlos trotzdem.
 
-Mit `--json` kommt das vollständige Ergebnis als JSON: `scan` enthält die Rohdaten (alle Anfragen samt übertragener Größe und dem, was sie vom Besucher tragen, Cookies, Speicher, ausgelesene Fingerprinting-Werte und Browser-Zugriffe samt Skript, die Grundlagen der Barrierefreiheit, die Breite von Seite und Fenster, `mobile: true` bei `--mobile`, `gpc: true` bei `--gpc`, die Ladezeiten unter `timing`, unter `policy` die Adresse der Datenschutzerklärung und die Dienste, die sie nennt, Header, Zertifikat samt den Namen darin, Links, Formulare, eingebundene Dateien, die Hosts von `--own`), `results` je Prüfung ein Objekt mit `check` (`third-party`, `cookies`, `leaks`, `fingerprinting`, `access`, `legal`, `policy`, `https`, `headers`, `resources`, `forms`, `disclosure`, `indexing`, `mobile`, `accessibility`), `level` (`green`, `yellow`, `red`) und den Befunden, `note` den Hinweis auf die fehlende Rechtsberatung. Server und Cookies, die zur Seite zu gehören scheinen, tragen `own` mit dem Grund (`option`, `certificate`, `name`, `platform`). Bei `third-party` stehen unter `selfHosted` die bekannten Dienste, die auf der eigenen Seite laufen, unter `consentMode` der Stand von Google Consent Mode, unter `banner` der Knopf des Cookie-Banners, der zustimmt (`accept`), und der, der ablehnt (`reject`, fehlt, wenn es keinen gibt). `scan.banner` enthält die Texte aller Knöpfe, die spurlos im Banner gefunden hat. Bei mehreren Adressen ist es eine Liste solcher Objekte. Die roten Prüfungen etwa:
+Mit `--json` kommt das vollständige Ergebnis als JSON: `scan` enthält die Rohdaten (alle Anfragen samt übertragener Größe und dem, was sie vom Besucher tragen, Cookies, Speicher, ausgelesene Fingerprinting-Werte und Browser-Zugriffe samt Skript, die Grundlagen der Barrierefreiheit, die Breite von Seite und Fenster, `mobile: true` bei `--mobile`, `gpc: true` bei `--gpc`, die Ladezeiten unter `timing`, unter `policy` die Adresse der Datenschutzerklärung und die Dienste, die sie nennt, Header, Zertifikat samt den Namen darin, Links, Formulare, eingebundene Dateien, die Hosts von `--own`), `results` je Prüfung ein Objekt mit `check` (`third-party`, `cookies`, `leaks`, `fingerprinting`, `access`, `legal`, `policy`, `https`, `headers`, `resources`, `forms`, `disclosure`, `indexing`, `mobile`, `accessibility`), `level` (`green`, `yellow`, `red`) und den Befunden, `note` den Hinweis auf die fehlende Rechtsberatung. Server und Cookies, die zur Seite zu gehören scheinen, tragen `own` mit dem Grund (`option`, `certificate`, `name`, `platform`). Bei `third-party` stehen unter `selfHosted` die bekannten Dienste, die auf der eigenen Seite laufen, unter `consentMode` der Stand von Google Consent Mode, unter `banner` der Knopf des Cookie-Banners, der zustimmt (`accept`), und der, der ablehnt (`reject`, fehlt, wenn es keinen gibt), unter `embeds` die Videos, Karten und Beiträge, die schon beim Laden als Rahmen eingebettet sind. `scan.banner` enthält die Texte aller Knöpfe, die spurlos im Banner gefunden hat. Bei mehreren Adressen ist es eine Liste solcher Objekte. Die roten Prüfungen etwa:
 
 ```
 npx spurlos https://staging.firma.de --json | jq -r '.results[] | select(.level == "red") | .check'

diff --git a/docs/en/ci.md b/docs/en/ci.md
@@ -8,7 +8,7 @@ npx spurlos https://staging.company.com --lang en || echo "new traces"
 
 Exit code `0` without a red finding, `1` with one, `2` if a page could not be checked or the call was wrong (unknown option, invalid URL, unknown language, more than one of `--json`, `--html`, `--pdf`, `--sarif`, one of them with several `-o`, a baseline that cannot be read, a login for addresses on different servers, anything but a host name with `--own`) or a file of `-o` could not be written. A missing or rejected login ends with `2` too, and so does a page that turns the request away with `403` or `429`, and one Chromium will not open at all because its certificate is invalid or its server offers only outdated TLS versions such as 1.0 and 1.1; the message then says why. With several addresses the worst case counts; spurlos still writes the reports of the pages it could check.
 
-With `--json` you get the full result as JSON: `scan` holds the raw data (every request with its transferred size and what it carries of the visitor's, cookies, storage, fingerprinting reads and browser access with their script, the accessibility basics, the width of page and window, `mobile: true` with `--mobile`, `gpc: true` with `--gpc`, the load times under `timing`, under `policy` the address of the privacy policy and the services it names, headers, certificate with the names in it, links, forms, embedded files, the hosts of `--own`), `results` one object per check with `check` (`third-party`, `cookies`, `leaks`, `fingerprinting`, `access`, `legal`, `policy`, `https`, `headers`, `resources`, `forms`, `disclosure`, `indexing`, `mobile`, `accessibility`), `level` (`green`, `yellow`, `red`) and the findings, `note` the note that this is not legal advice. Servers and cookies that seem to belong to the site carry `own` with the reason (`option`, `certificate`, `name`, `platform`). Under `third-party`, `selfHosted` lists the known services running on the site itself, `consentMode` the state of Google Consent Mode, `banner` the cookie banner's button that agrees (`accept`) and the one that refuses (`reject`, missing if there is none). `scan.banner` holds the texts of all buttons spurlos found in the banner. With several addresses it is a list of such objects. The red checks, for example:
+With `--json` you get the full result as JSON: `scan` holds the raw data (every request with its transferred size and what it carries of the visitor's, cookies, storage, fingerprinting reads and browser access with their script, the accessibility basics, the width of page and window, `mobile: true` with `--mobile`, `gpc: true` with `--gpc`, the load times under `timing`, under `policy` the address of the privacy policy and the services it names, headers, certificate with the names in it, links, forms, embedded files, the hosts of `--own`), `results` one object per check with `check` (`third-party`, `cookies`, `leaks`, `fingerprinting`, `access`, `legal`, `policy`, `https`, `headers`, `resources`, `forms`, `disclosure`, `indexing`, `mobile`, `accessibility`), `level` (`green`, `yellow`, `red`) and the findings, `note` the note that this is not legal advice. Servers and cookies that seem to belong to the site carry `own` with the reason (`option`, `certificate`, `name`, `platform`). Under `third-party`, `selfHosted` lists the known services running on the site itself, `consentMode` the state of Google Consent Mode, `banner` the cookie banner's button that agrees (`accept`) and the one that refuses (`reject`, missing if there is none), `embeds` the videos, maps and posts embedded as a frame on load. `scan.banner` holds the texts of all buttons spurlos found in the banner. With several addresses it is a list of such objects. The red checks, for example:
 
 ```
 npx spurlos https://staging.company.com --json | jq -r '.results[] | select(.level == "red") | .check'
